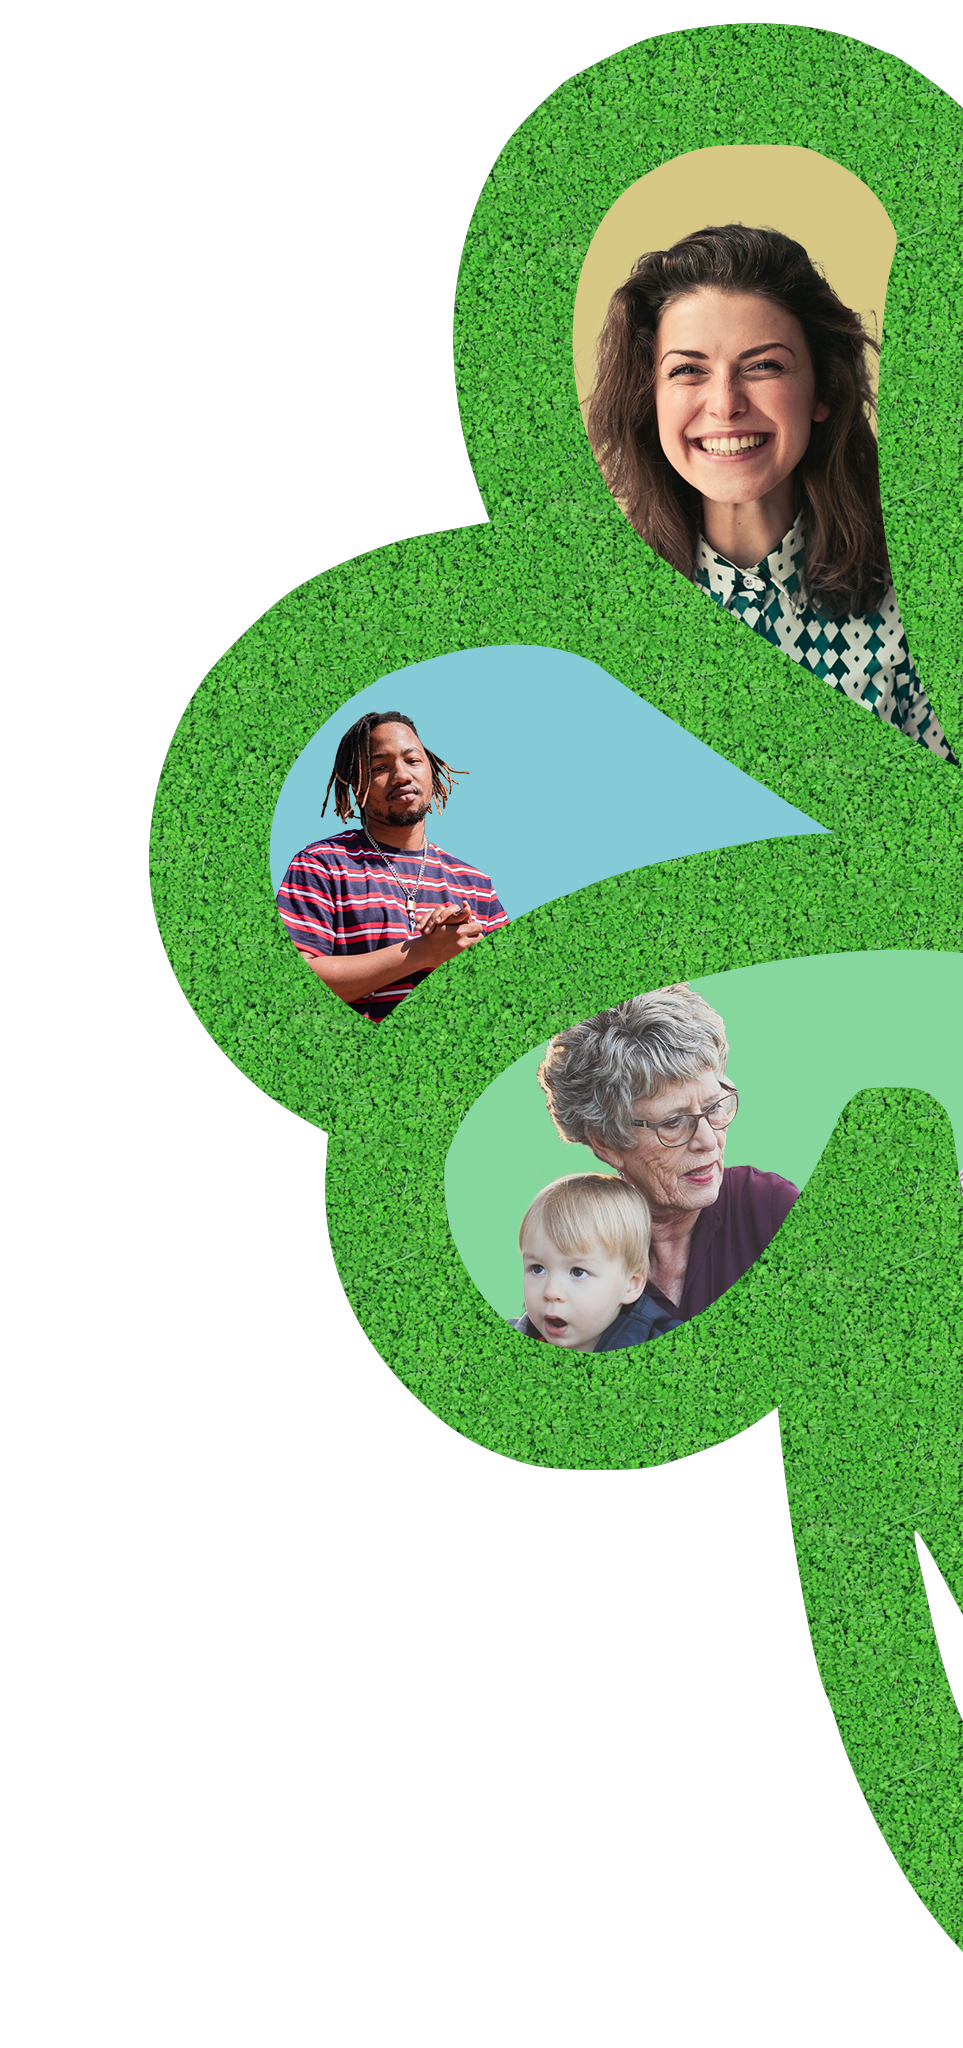
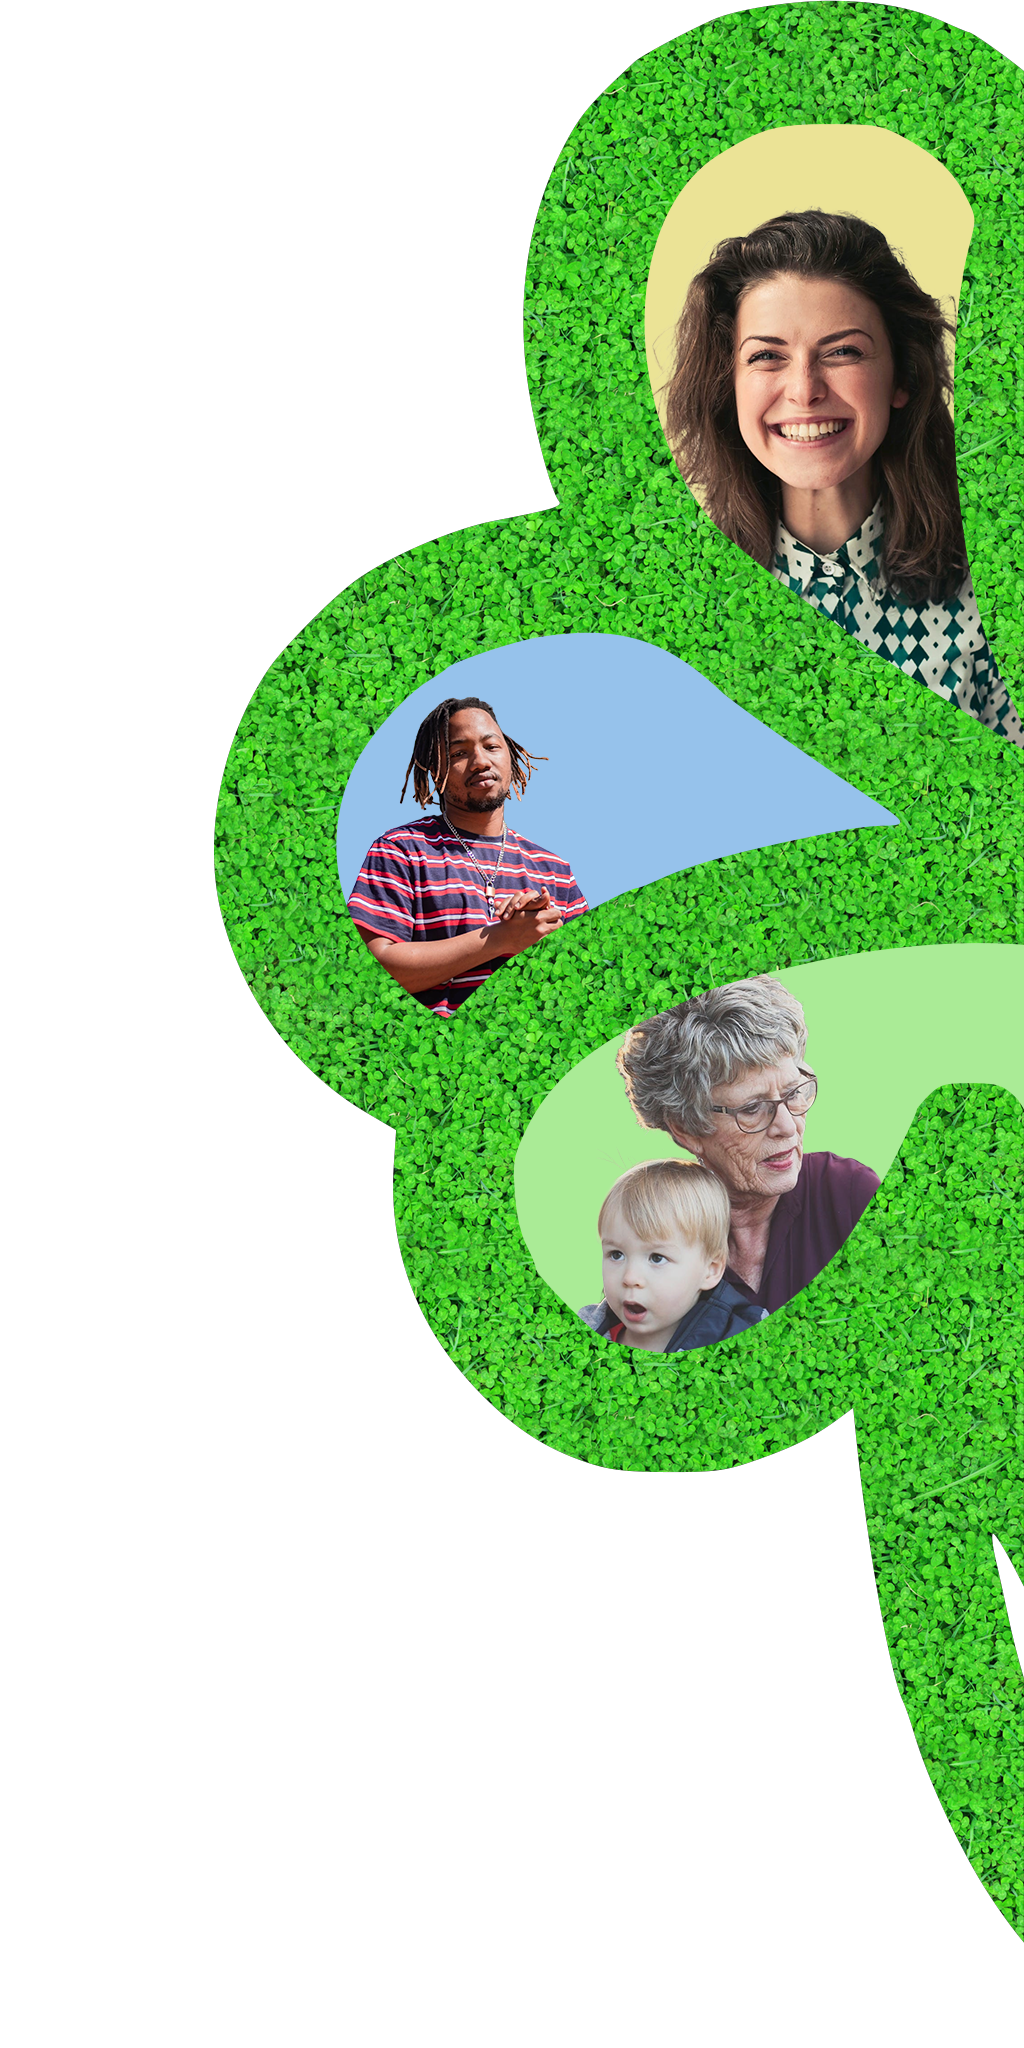
hero section

diff --git a/frontend/src/pages/home/index.js b/frontend/src/pages/home/index.js
@@ -14,11 +14,11 @@ import Header from '../../components/header/index';
 // ----------------------------------------------------------------------
 
 const StyledRoot = styled('div')(({ theme }) => ({
-  [theme.breakpoints.up('lg')]: {
+  // [theme.breakpoints.up('lg')]: {
     display: 'flex',
     position: 'relative',
     overflow: 'hidden',
-  },
+  // },
 }));
 
 const StyledSection = styled('div')(({ theme }) => ({
@@ -33,8 +33,8 @@ const StyledSection = styled('div')(({ theme }) => ({
 
 const HeroText = styled('div')(({ theme }) => ({
   maxWidth: 545,
-  marginTop: 240,
-  marginBottom: 143,
+  marginTop: 278,
+  // marginBottom: 119,
   // minHeight: '100vh',
   // display: 'flex',
   // justifyContent: 'center',
@@ -44,14 +44,13 @@ const HeroText = styled('div')(({ theme }) => ({
 }));
 
 const HeroImage = styled('div')(({ theme }) => ({
+  zIndex: 3,
     position: 'absolute',
-    top: 100,
-    right: `calc(50% - 750px)`,
-    maxWidth: 913,
-    margin: 'auto',
+    top: 92,
+    maxWidth: 1920,
     // minHeight: '100vh',
-    display: 'flex',
-    justifyContent: 'right',
+    // display: 'flex',
+    // justifyContent: 'right',
     // flexDirection: 'column',
     // padding: theme.spacing(12, 0),
   }));
@@ -64,34 +63,43 @@ export default function Home() {
   const navigate = useNavigate();
   const mdUp = useResponsive('up', 'lg');
 
-  const GREY = theme.palette.text.secondary;
-
   return (
       <>
-        <Header/>
         <Helmet>
-            <title>Clover</title>
+            <title>Clover | Home</title>
         </Helmet>
-
-        <StyledRoot>
+        <Header/>
+        <StyledRoot 
+          sx={{
+            backgroundImage: "url('assets/images/covers/cover-hero-2.png')",
+            backgroundRepeat: "no-repeat",
+            // backgroundSize: 'cover',
+            // position: 'absolute',
+            // backgroundPosition: 'center center',
+            width: '100%',
+            height: '100%',
+            // content: '""',
+            // display: 'block',
+          }}
+        >
             <Container maxWidth="lg">
                 <HeroText>
-                    <Typography variant="h1" mb={2}>
+                    <Typography variant="h1" mb={2} color={theme.palette.background.paper}>
                         Insurance that pays off
                     </Typography>
-                    <Typography variant="body1" mb={3} color={GREY}>
-                        Clover merges customer service, integrity, and innovation, rewarding you with a revolutionary coverage experience.
+                    <Typography variant="body1" mb={3} color={theme.palette.background.paper}>
+                      Get up to 25% cashback on your auto and home insurance policy today with Clover
                     </Typography>
-                    <Button size="large" type="button" variant="contained" href="/register" marginBottom={80}>
-                        Get started
+                    <Button size="large" type="button" variant="contained" href="/register" color={'inherit'} marginBottom={0}>
+                        Learn how
                     </Button>
                 </HeroText>
-                <HeroImage>
+                {/* <HeroImage>
                     <img
-                        src="assets/images/covers/cover.png"
+                        src="assets/images/covers/cover-hero.png"
                         alt="hero"
                     />
-                </HeroImage>
+                </HeroImage> */}
             </Container>
         </StyledRoot>
         {/* <Learn scrollToRef={scrollToRef} /> */}

diff --git a/frontend/src/theme/palette.js b/frontend/src/theme/palette.js
@@ -17,29 +17,29 @@ const GREY = {
 };
 
 const PRIMARY = {
-  lighter: '#E0F1DB', // 7 up
-  light: '#A2D492', // 4 up
-  main: '#64B74A',
-  dark: '#3C6E2C', // 4 down
-  darker: '#28491E', // 7 down
+  lighter: '#DDF7D5', // 7 up
+  light: '#AAEB96', // 4 up
+  main: '#54D62C',
+  dark: '#32801A', // 3 down
+  darker: '#19400D', // 6 down
   contrastText: '#fff',
 };
 
 const SECONDARY = {
-  lighter: '#D6EDF2',
-  light: '#85CAD7',
-  main: '#33A7BD',
-  dark: '#1F6471',
-  darker: '#0F3239',
+  lighter: '#E0D5F7',
+  light: '#B296EB',
+  main: '#652CD6',
+  dark: '#3D1A80',
+  darker: '#281256',
   contrastText: '#fff',
 };
 
 const INFO = {
-  lighter: '#DBE0F1',
-  light: '#92A2D4',
-  main: '#4A64B7',
-  dark: '#2C3C6E',
-  darker: '#1E2849',
+  lighter: '#D5E6F7',
+  light: '#96C2EB',
+  main: '#2C84D6',
+  dark: '#1A4F80',
+  darker: '#123556',
   contrastText: '#fff',
 };
 
@@ -53,20 +53,20 @@ const SUCCESS = {
 };
 
 const WARNING = {
-  lighter: '#F1EFDB',
-  light: '#D4CE92',
-  main: '#B7AD4A',
-  dark: '#6E682C',
-  darker: '#49451E',
+  lighter: '#F7F4D5',
+  light: '#EBE396',
+  main: '#D6C72C',
+  dark: '#80771A',
+  darker: '#565012',
   contrastText: GREY[800],
 };
 
 const ERROR = {
-  lighter: '#F1DCDB',
-  light: '#D49692',
-  main: '#B7504A',
-  dark: '#6E302C',
-  darker: '#49201E',
+  lighter: '#F7D7D5',
+  light: '#EB9A96',
+  main: '#D6352C',
+  dark: '#80201A',
+  darker: '#561512',
   contrastText: '#fff',
 };
 

diff --git a/frontend/src/components/header/index.js b/frontend/src/components/header/index.js
@@ -82,7 +82,7 @@ export default function Header() {
         <StyledRoot>
                 <StyledToolbar>
                     <Box sx={{ py: 3, display: 'inline-flex', cursor: "pointer" }} onClick={home}>
-                        <img src="/assets/logo-full-1.png" height={40}  />
+                        <img src="/assets/logo-full.png" height={40}  />
                     </Box>
                     <NavLinks>
                         <ListItemButton

diff --git a/frontend/src/pages/LoginPage.js b/frontend/src/pages/LoginPage.js
@@ -79,7 +79,7 @@ export default function LoginPage() {
             {/* <Typography variant="h3" sx={{ px: 5, mt: 10, mb: 5 }}>
               Hi, Welcome Back
             </Typography> */}
-            <img src="/assets/images/covers/cover-login.png" height="1024" width="482" alt="login"/>
+            <img src="/assets/images/covers/cover-login-2.png" alt="login"/>
           </StyledSection>
         )}
 

diff --git a/frontend/src/layouts/dashboard/nav/index.js b/frontend/src/layouts/dashboard/nav/index.js
@@ -56,7 +56,7 @@ export default function Nav({ openNav, onCloseNav }) {
       }}
     >
       <Box sx={{ px: 2.5, py: 3, display: 'inline-flex', cursor: "pointer" }} onClick={home}>
-        <img src="/assets/logo-full-1.png" width={150}  />
+        <img src="/assets/logo-full.png" width={150}  />
       </Box>
 
       {/* <Box sx={{ mb: 5, mx: 2.5 }}> */}

diff --git a/frontend/src/pages/RegisterPage.js b/frontend/src/pages/RegisterPage.js
@@ -76,7 +76,7 @@ export default function RegisterPage() {
 
         {mdUp && (
           <StyledSection>
-            <img src="/assets/images/covers/cover-login.png" height="1024" width="482" alt="register" />
+            <img src="/assets/images/covers/cover-login-2.png" alt="register" />
           </StyledSection>
         )}
 
